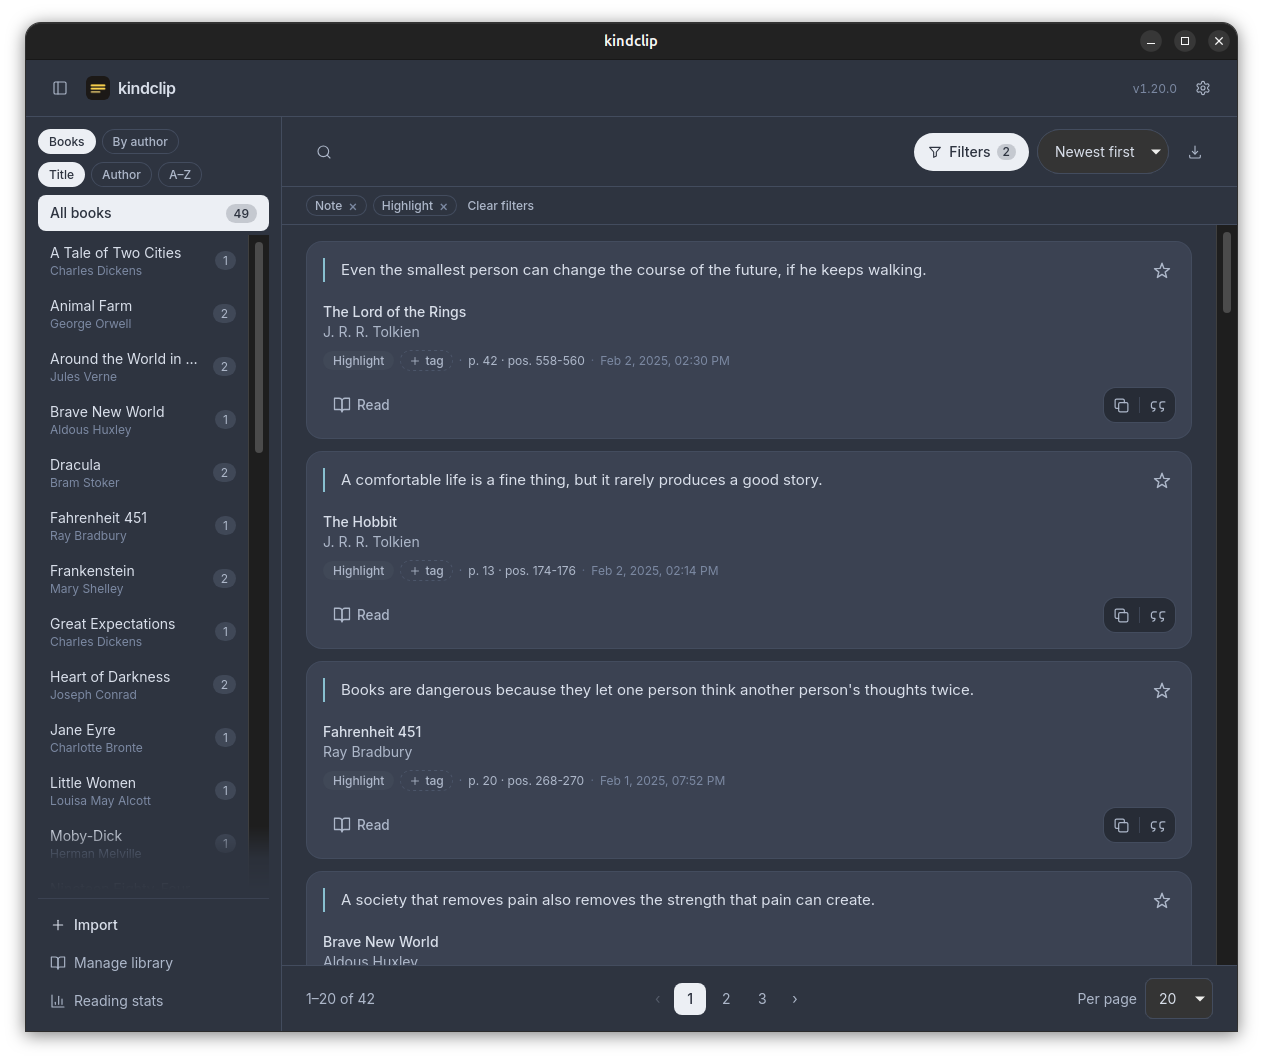
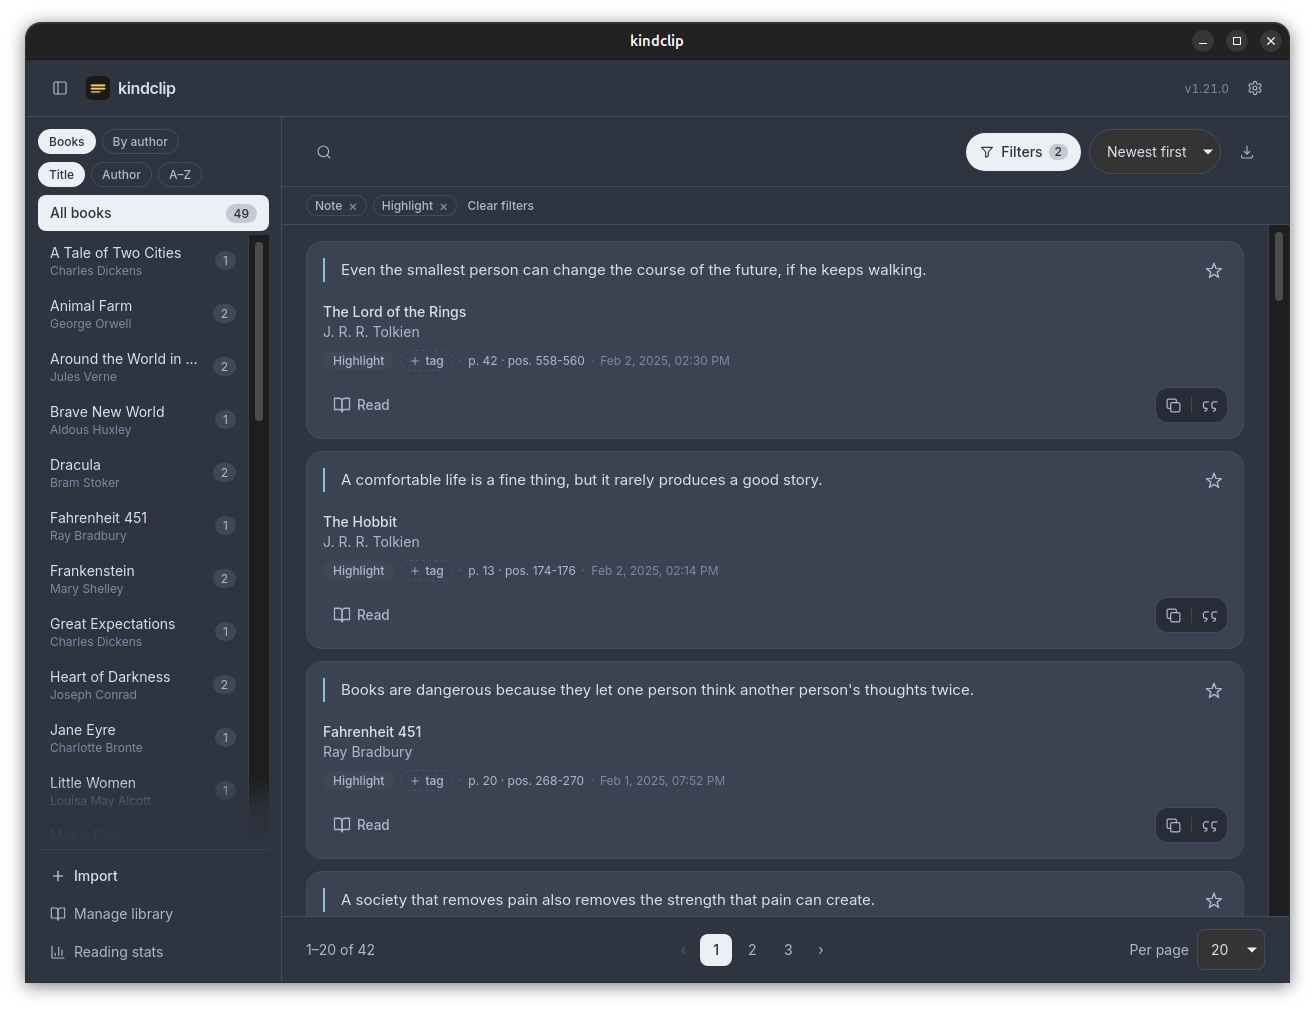
docs: show 1.21.0 in the screenshots
Retaken with the release titlebar and the new intrinsic size (1315x1011) on the landing page.

diff --git a/docs/index.html b/docs/index.html
@@ -1449,8 +1449,8 @@
           <figure class="hero-shot">
             <img
               src="screen_1.png"
-              width="1263"
-              height="1060"
+              width="1315"
+              height="1011"
               alt="kindclip library view in the Atom One Dark palette: a book sidebar with clipping counts, removable filter chips, and clipping cards showing quotes, titles, pages and dates."
             />
             <figcaption>
@@ -1772,8 +1772,8 @@
           <figure class="shot-card">
             <img
               src="screen_2.png"
-              width="1263"
-              height="1060"
+              width="1315"
+              height="1011"
               loading="lazy"
               alt="The global search palette over the library, listing two matching clippings from different books with their match counts."
             />
